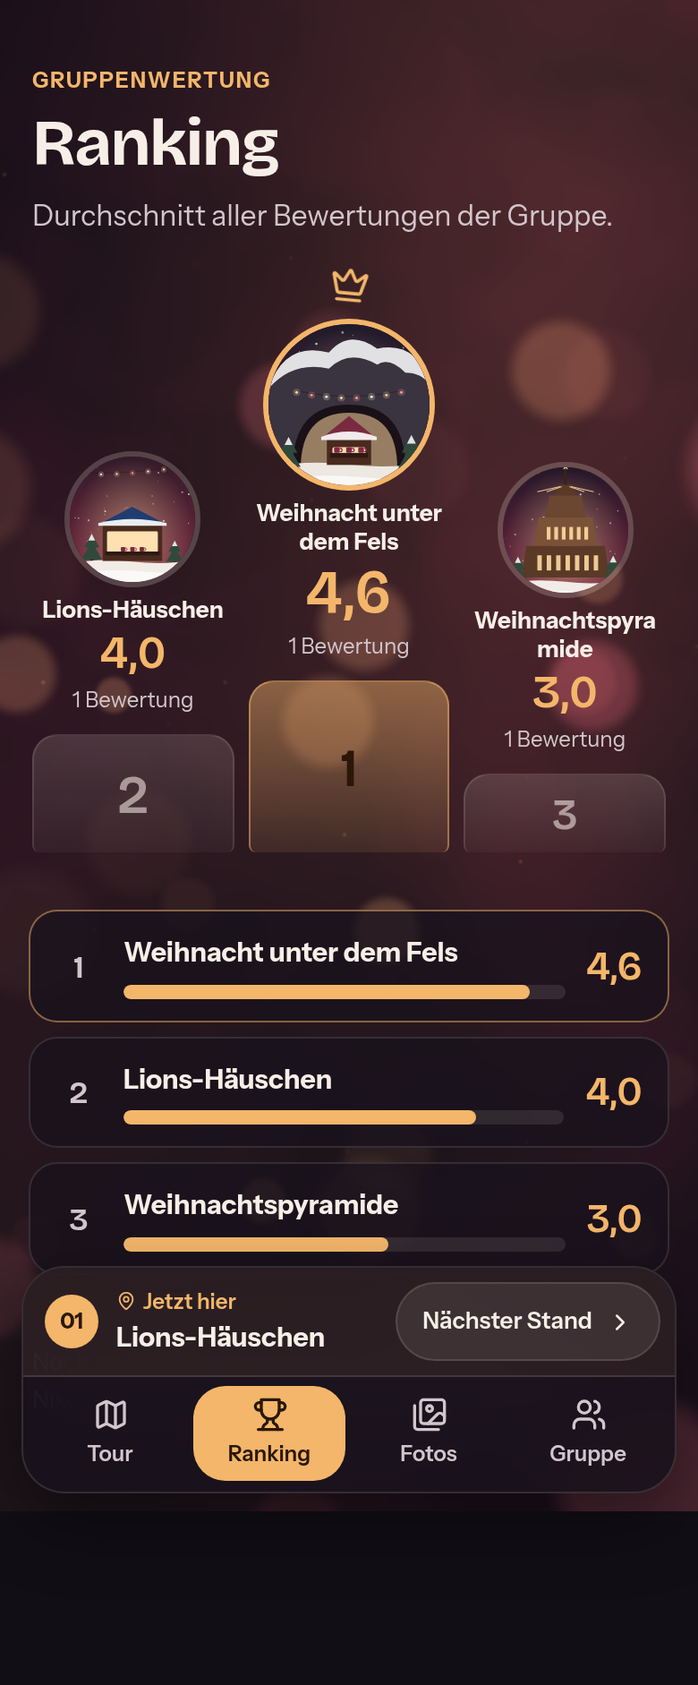
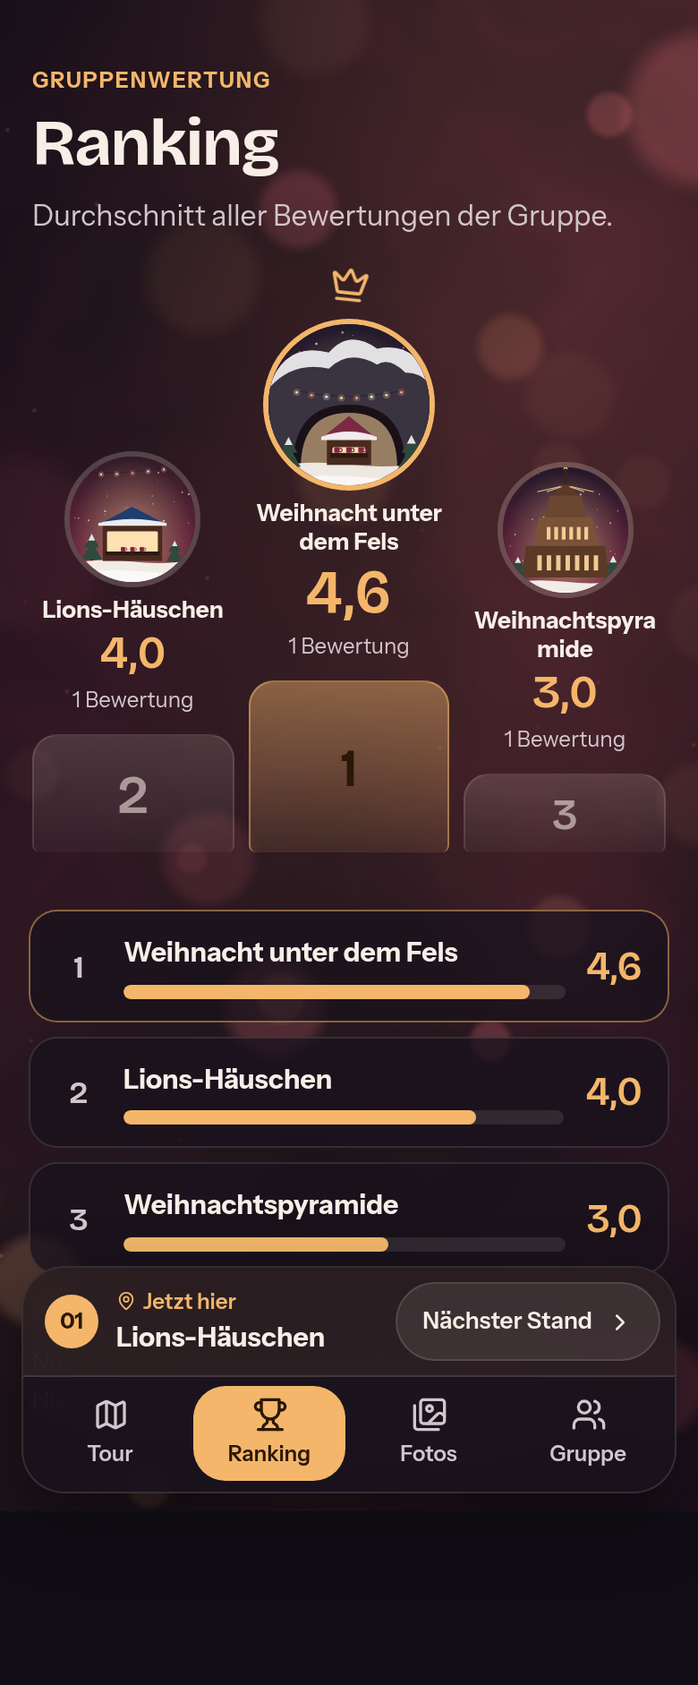
Neues Design wird Standard, Design-Test entfernt
- Regeln aus dem Test "Neu" gelten jetzt für alle (html data-ui="2026")
- "Mutig", ?design-Link, localStorage-Schalter und Fortschrittsring entfernt
- Standkarten auf der Startseite wieder kompakt wie im alten Design
- DESIGN.md und README: neue Schriften, kein Glow, neue Pages-Adresse

Claude-Session: https://claude.ai/code/session_01HBLPNU7waewuAfHJxNee8H

diff --git a/app/app.css b/app/app.css
@@ -678,154 +678,116 @@ li.ok .guide-icon { background: rgba(var(--pine-rgb), .16); color: var(--pine); 
 .intro-skip { position: absolute; bottom: calc(26px + env(safe-area-inset-bottom)); font-size: 12px; color: var(--muted); opacity: .7; animation: slogan-in .6s ease 1.2s both; }
 @media (prefers-reduced-motion: reduce) { .intro * { animation: none !important; } }
 
-/* ═════════ TEST-DESIGN „neu“ (aktiv mit ?design=neu) – Regeln aus DESIGN.md ═════════
+/* ═════════ DESIGN 2026 – Regeln aus DESIGN.md ═════════
    Alles hier greift nur bei <html data-design="neu">. Mit ?design=alt zurück. */
 
 /* Radien: 3 Stufen + Pillen-Buttons. Designs mit eigener Persönlichkeit behalten ihre Form. */
-:root[data-design="neu"] { --radius: 24px; --radius-sm: 16px; --btn-radius: 999px; }
-:root[data-design="neu"][data-theme="tannenwald"] { --radius: 14px; --radius-sm: 10px; --btn-radius: 10px; }
-:root[data-design="neu"][data-theme="zuckerstange"] { --radius: 30px; --radius-sm: 24px; }
-[data-design="neu"] .icon-btn, [data-design="neu"] .map-tools button { border-radius: 999px; }
+:root[data-ui] { --radius: 24px; --radius-sm: 16px; --btn-radius: 999px; }
+:root[data-ui][data-theme="tannenwald"] { --radius: 14px; --radius-sm: 10px; --btn-radius: 10px; }
+:root[data-ui][data-theme="zuckerstange"] { --radius: 30px; --radius-sm: 24px; }
+[data-ui] .icon-btn, [data-ui] .map-tools button { border-radius: 999px; }
 
 /* Typo-Skala: Text 16, Eingaben 16 (kein iPhone-Zoom), feste Stufen für Titel */
-[data-design="neu"] body { font-size: 16px; }
-[data-design="neu"] input, [data-design="neu"] textarea, [data-design="neu"] select { font-size: 16px !important; }
-[data-design="neu"] .card-head h2, [data-design="neu"] .section-head h2 { font-size: 22px; }
-[data-design="neu"] .page-head h1 { font-size: 36px; line-height: 1.05; }
-[data-design="neu"] .sheet h2, [data-design="neu"] .rating-stand h2 { font-size: 22px; }
-[data-design="neu"] h1, [data-design="neu"] h2, [data-design="neu"] .stand-main strong, [data-design="neu"] .podium strong { hyphens: auto; -webkit-hyphens: auto; overflow-wrap: break-word; }
-[data-design="neu"] .podium strong { overflow-wrap: anywhere; } /* Fallback, wenn der Browser keine deutsche Silbentrennung kann */
+[data-ui] body { font-size: 16px; }
+[data-ui] input, [data-ui] textarea, [data-ui] select { font-size: 16px !important; }
+[data-ui] .card-head h2, [data-ui] .section-head h2 { font-size: 22px; }
+[data-ui] .page-head h1 { font-size: 36px; line-height: 1.05; }
+[data-ui] .sheet h2, [data-ui] .rating-stand h2 { font-size: 22px; }
+[data-ui] h1, [data-ui] h2, [data-ui] .stand-main strong, [data-ui] .podium strong { hyphens: auto; -webkit-hyphens: auto; overflow-wrap: break-word; }
+[data-ui] .podium strong { overflow-wrap: anywhere; } /* Fallback, wenn der Browser keine deutsche Silbentrennung kann */
 
 /* Eyebrow: volles Gold (Kontrast ≥ 4.5:1), kein Dauer-Schimmer, ruhigere Laufweite */
-[data-design="neu"] .shiny { color: var(--amber); background: none; -webkit-background-clip: border-box; background-clip: border-box; animation: none; letter-spacing: .08em; }
-[data-design="neu"] .eyebrow, [data-design="neu"] .sheet-number, [data-design="neu"] .event-from { letter-spacing: .08em; }
+[data-ui] .shiny { color: var(--amber); background: none; -webkit-background-clip: border-box; background-clip: border-box; animation: none; letter-spacing: .08em; }
+[data-ui] .eyebrow, [data-ui] .sheet-number, [data-ui] .event-from { letter-spacing: .08em; }
 
 /* Ruhige Flächen statt Glas: Blur nur noch für schwebende Elemente */
-:root[data-design="neu"] :where(.card, .stats, .progress-card, .stand-card, .podium button, .people li, .guide-steps > li) {
+:root[data-ui] :where(.card, .stats, .progress-card, .stand-card, .podium button, .people li, .guide-steps > li) {
   background: rgba(var(--panel-rgb), .74); backdrop-filter: none; -webkit-backdrop-filter: none;
 }
 
 /* Abstände im 4er-Raster, mehr Luft zwischen Sektionen */
-[data-design="neu"] .content { gap: 24px; }
-[data-design="neu"] .card-head { padding: 20px 20px 12px; }
-[data-design="neu"] .section-head { margin: 8px 4px 12px; }
-[data-design="neu"] .stand-list { gap: 12px; }
-[data-design="neu"] .stand-card { padding: 14px 16px 14px 14px; gap: 16px; }
+[data-ui] .content { gap: 24px; }
+[data-ui] .card-head { padding: 20px 20px 12px; }
+[data-ui] .section-head { margin: 8px 4px 12px; }
+[data-ui] .stand-list { gap: 12px; }
+[data-ui] .stand-card { padding: 14px 16px 14px 14px; gap: 16px; }
 
 /* Standkarte: klare Hierarchie (Name > Ort/Getränk > Bewertung), einheitliche Status-Tags */
-[data-design="neu"] .stand-main { gap: 3px; }
-[data-design="neu"] .stand-main strong { font-size: 17px; font-weight: 650; }
-[data-design="neu"] .stand-main small { font-size: 14px; }
-[data-design="neu"] .stand-num { letter-spacing: .06em; gap: 6px; flex-wrap: wrap; }
-[data-design="neu"] .here-tag, [data-design="neu"] .done { margin-left: 0; padding: 2px 8px; border-radius: 999px; font-size: 12px; font-weight: 700; letter-spacing: 0; line-height: 1.5; }
-[data-design="neu"] .done { background: rgba(var(--pine-rgb), .14); }
-[data-design="neu"] .done.all { background: var(--surface-2); color: var(--ink); margin-left: 0; }
+[data-ui] .stand-main { gap: 3px; }
+[data-ui] .stand-main strong { font-size: 17px; font-weight: 650; }
+[data-ui] .stand-main small { font-size: 14px; }
+[data-ui] .stand-num { letter-spacing: .06em; gap: 6px; flex-wrap: wrap; }
+[data-ui] .here-tag, [data-ui] .done { margin-left: 0; padding: 2px 8px; border-radius: 999px; font-size: 12px; font-weight: 700; letter-spacing: 0; line-height: 1.5; }
+[data-ui] .done { background: rgba(var(--pine-rgb), .14); }
+[data-ui] .done.all { background: var(--surface-2); color: var(--ink); margin-left: 0; }
 
 /* Farbrollen: Gold = Aktion/Jetzt hier/Scores, ohne Leuchten; Balken einfarbig */
-[data-design="neu"] .btn.primary { box-shadow: 0 2px 8px rgba(0, 0, 0, .25); }
-[data-design="neu"] .stand-card.is-now { box-shadow: 0 0 0 1px rgba(var(--accent-rgb), .35); }
-[data-design="neu"] .criteria-bars b { background: var(--amber); }
-[data-design="neu"] .map-marker.selected { box-shadow: 0 0 0 4px rgba(var(--accent-rgb), .25); }
+[data-ui] .btn.primary { box-shadow: 0 2px 8px rgba(0, 0, 0, .25); }
+[data-ui] .stand-card.is-now { box-shadow: 0 0 0 1px rgba(var(--accent-rgb), .35); }
+[data-ui] .criteria-bars b { background: var(--amber); }
+[data-ui] .map-marker.selected { box-shadow: 0 0 0 4px rgba(var(--accent-rgb), .25); }
 
 /* Ranking: Medaillen deckend und lesbar über den Bildern */
-[data-design="neu"] .medal { background: var(--panel-solid); color: var(--ink); border-color: var(--panel-solid); box-shadow: 0 2px 8px rgba(0, 0, 0, .35); }
-[data-design="neu"] .place-1 .medal { background: var(--amber); color: var(--amber-ink); }
+[data-ui] .medal { background: var(--panel-solid); color: var(--ink); border-color: var(--panel-solid); box-shadow: 0 2px 8px rgba(0, 0, 0, .35); }
+[data-ui] .place-1 .medal { background: var(--amber); color: var(--amber-ink); }
 
 /* Touch-Ziele mindestens 44 px */
-[data-design="neu"] .btn.small { min-height: 44px; }
-[data-design="neu"] .link-btn { min-height: 44px; }
-[data-design="neu"] .photo-previews button, [data-design="neu"] .admin-stand-actions .icon-btn { width: 44px; height: 44px; }
+[data-ui] .btn.small { min-height: 44px; }
+[data-ui] .link-btn { min-height: 44px; }
+[data-ui] .photo-previews button, [data-ui] .admin-stand-actions .icon-btn { width: 44px; height: 44px; }
 
 /* Bedienung */
-[data-design="neu"] button:disabled { cursor: not-allowed; }
+[data-ui] button:disabled { cursor: not-allowed; }
 @media (prefers-reduced-motion: reduce) {
-  [data-design="neu"] *, [data-design="neu"] *::before, [data-design="neu"] *::after { animation-duration: .01ms !important; animation-iteration-count: 1 !important; transition-duration: .01ms !important; }
+  [data-ui] *, [data-ui] *::before, [data-ui] *::after { animation-duration: .01ms !important; animation-iteration-count: 1 !important; transition-duration: .01ms !important; }
 }
 
-/* Schalter zum Vergleichen (Gruppe) */
-.design-test { display: flex; align-items: center; gap: 10px; padding: 12px 14px; border-radius: var(--radius-sm); border: 1px dashed rgba(var(--accent-rgb), .5); font-size: 13px; color: var(--muted); }
-.design-test strong { color: var(--ink); margin-right: auto; }
-.design-test button { min-height: 36px; padding: 0 14px; border-radius: 999px; border: 1px solid var(--line); background: var(--surface-2); color: var(--ink); font-weight: 700; font-size: 13px; }
-.design-test button.active { background: var(--amber); border-color: var(--amber); color: var(--amber-ink); }
+.crown, .pedestal, .rank-bars { display: none; }
 
-/* ═════════ TEST-DESIGN „mutig“ (aktiv mit ?design=mutig; enthält alle „neu“-Regeln) ═════════ */
-.cup-ring, .cup-count, .crown, .pedestal, .rank-bars { display: none; }
-
-/* 1 · Hero als Bühne: Tasse groß in der Mitte, Fortschrittsring drumherum, Titel darunter */
-[data-bold] .hero { grid-template-columns: 1fr; justify-items: center; text-align: center; min-height: 0; gap: 4px; }
-[data-bold] .hero-cup { order: -1; width: 280px; height: 300px; margin: 0 auto; }
-[data-bold] .winter-cup { inset: 14px 6px 40px 14px; }
-[data-bold] .cup-ring { display: block; position: absolute; left: 50%; top: 4px; width: 252px; height: 252px; transform: translateX(-50%) rotate(-90deg); overflow: visible; }
-[data-bold] .cup-ring-track { fill: none; stroke: rgba(var(--ink-rgb), .1); stroke-width: 2.5; }
-[data-bold] .cup-ring-fill { fill: none; stroke: var(--pine); stroke-width: 3.5; stroke-linecap: round; transition: stroke-dasharray .8s cubic-bezier(.2, .8, .2, 1); }
-[data-bold] .cup-count { display: inline-block; position: absolute; left: 50%; bottom: 8px; transform: translateX(-50%); padding: 6px 14px; border-radius: 999px; background: rgba(var(--panel-rgb), .85); border: 1px solid var(--line); font-size: 13px; color: var(--muted); white-space: nowrap; }
-[data-bold] .cup-count b { font: 600 18px var(--display); color: var(--amber); margin-right: 2px; font-variant-numeric: lining-nums; }
-[data-bold] .hero-copy { justify-items: center; }
-[data-bold] .hero h1 { font-size: clamp(40px, 12vw, 60px); }
-[data-bold] .slogan { text-align: center; max-width: 26ch; }
-[data-bold] .progress-card { display: none; }
-
-/* 2 · Karte randlos über die volle Breite */
-[data-bold] .map-card { margin: 0 -16px; border-radius: 0; border-left: 0; border-right: 0; background: rgba(var(--panel-rgb), .55); }
-[data-bold] .map-card .card-head { padding: 18px 16px 12px; }
-[data-bold] .map-wrap { height: 320px; }
-[data-bold] .map-selected { padding-right: 16px; }
-[data-bold] .map-selected-main { padding-left: 16px; }
-
-/* Standkarten mit großem Bild oben (in „Neu“ und „Mutig“) */
-[data-design="neu"] .stand-list { gap: 16px; }
-[data-design="neu"] .stand-card { position: relative; flex-direction: column; align-items: stretch; gap: 0; padding: 0; overflow: hidden; }
-[data-design="neu"] .stand-thumb { width: 100%; }
-[data-design="neu"] .stand-thumb > img { width: 100%; height: auto; aspect-ratio: 16 / 9; border-radius: 0; object-fit: cover; object-position: center 62%; }
-[data-design="neu"] .tick svg { width: 52px; height: 52px; padding: 10px; }
-[data-design="neu"] .stand-main { padding: 14px 16px 16px; }
-[data-design="neu"] .stand-main strong { font-size: 19px; }
-[data-design="neu"] .stand-card .stack { display: none; }
-
-/* Ranking als Siegertreppchen + Balkenliste (in „Neu“ und „Mutig“) */
-[data-design="neu"] .podium { gap: 8px; margin-top: 18px; }
-[data-design="neu"] .podium li { display: flex; flex-direction: column; justify-content: flex-end; }
-[data-design="neu"] .podium button, [data-design="neu"] .podium .place-1 button { position: relative; background: none; border: 0; padding: 0 4px 10px; gap: 4px; box-shadow: none; }
-[data-design="neu"] .podium img { width: 76px; height: 76px; border-radius: 50%; border: 3px solid rgba(var(--ink-rgb), .2); }
-[data-design="neu"] .podium .place-1 img { width: 96px; height: 96px; border-color: var(--amber); box-shadow: 0 0 0 6px rgba(var(--accent-rgb), .15); }
-[data-design="neu"] .podium .medal { display: none; }
-[data-design="neu"] .crown { display: block; position: absolute; top: -26px; left: 50%; transform: translateX(-50%) rotate(-8deg); color: var(--amber); animation: crown-bob 2.6s ease-in-out infinite; }
+/* Ranking als Siegertreppchen + Balkenliste  */
+[data-ui] .podium { gap: 8px; margin-top: 18px; }
+[data-ui] .podium li { display: flex; flex-direction: column; justify-content: flex-end; }
+[data-ui] .podium button, [data-ui] .podium .place-1 button { position: relative; background: none; border: 0; padding: 0 4px 10px; gap: 4px; box-shadow: none; }
+[data-ui] .podium img { width: 76px; height: 76px; border-radius: 50%; border: 3px solid rgba(var(--ink-rgb), .2); }
+[data-ui] .podium .place-1 img { width: 96px; height: 96px; border-color: var(--amber); box-shadow: 0 0 0 6px rgba(var(--accent-rgb), .15); }
+[data-ui] .podium .medal { display: none; }
+[data-ui] .crown { display: block; position: absolute; top: -26px; left: 50%; transform: translateX(-50%) rotate(-8deg); color: var(--amber); animation: crown-bob 2.6s ease-in-out infinite; }
 @keyframes crown-bob { 50% { transform: translateX(-50%) translateY(-4px) rotate(6deg); } }
-[data-design="neu"] .podium-score { font-size: 26px; }
-[data-design="neu"] .podium .place-1 .podium-score { font-size: 34px; }
-[data-design="neu"] .pedestal { display: grid; place-items: center; border-radius: 14px 14px 4px 4px; background: linear-gradient(rgba(var(--ink-rgb), .14), rgba(var(--ink-rgb), .04)); border: 1px solid var(--line); border-bottom: 0; font: 600 30px var(--display); color: rgba(var(--ink-rgb), .55); }
-[data-design="neu"] .place-1 .pedestal { height: 96px; background: linear-gradient(rgba(var(--accent-rgb), .45), rgba(var(--accent-rgb), .1)); color: var(--amber-ink); border-color: rgba(var(--accent-rgb), .5); }
-[data-design="neu"] .place-2 .pedestal { height: 66px; }
-[data-design="neu"] .place-3 .pedestal { height: 44px; font-size: 24px; }
-[data-design="neu"] .rank-list { display: none; }
-[data-design="neu"] .rank-bars { display: grid; gap: 8px; list-style: none; margin: 8px 0 0; padding: 0; }
-[data-design="neu"] .rank-bars button { width: 100%; display: flex; align-items: center; gap: 12px; padding: 12px 14px; border-radius: 16px; border: 1px solid var(--line); background: rgba(var(--panel-rgb), .74); color: var(--ink); text-align: left; }
-[data-design="neu"] .rank-bars li:first-child button { border-color: rgba(var(--accent-rgb), .5); }
-[data-design="neu"] .rank-bars .rank { width: 26px; flex: none; font: 600 18px var(--display); color: var(--muted); text-align: center; }
-[data-design="neu"] .rank-bar-main { flex: 1; min-width: 0; display: grid; gap: 6px; }
-[data-design="neu"] .rank-bar-main strong { font-size: 15px; overflow: hidden; text-overflow: ellipsis; white-space: nowrap; }
-[data-design="neu"] .rank-bar-main i { height: 8px; border-radius: 99px; background: rgba(var(--ink-rgb), .1); overflow: hidden; }
-[data-design="neu"] .rank-bar-main i b { display: block; height: 100%; border-radius: 99px; background: var(--amber); }
-[data-design="neu"] .rank-bars > li > button > b { flex: none; font: 600 22px var(--display); color: var(--amber); font-variant-numeric: lining-nums; }
-@media (prefers-reduced-motion: reduce) { [data-design="neu"] .crown { animation: none; } }
+[data-ui] .podium-score { font-size: 26px; }
+[data-ui] .podium .place-1 .podium-score { font-size: 34px; }
+[data-ui] .pedestal { display: grid; place-items: center; border-radius: 14px 14px 4px 4px; background: linear-gradient(rgba(var(--ink-rgb), .14), rgba(var(--ink-rgb), .04)); border: 1px solid var(--line); border-bottom: 0; font: 600 30px var(--display); color: rgba(var(--ink-rgb), .55); }
+[data-ui] .place-1 .pedestal { height: 96px; background: linear-gradient(rgba(var(--accent-rgb), .45), rgba(var(--accent-rgb), .1)); color: var(--amber-ink); border-color: rgba(var(--accent-rgb), .5); }
+[data-ui] .place-2 .pedestal { height: 66px; }
+[data-ui] .place-3 .pedestal { height: 44px; font-size: 24px; }
+[data-ui] .rank-list { display: none; }
+[data-ui] .rank-bars { display: grid; gap: 8px; list-style: none; margin: 8px 0 0; padding: 0; }
+[data-ui] .rank-bars button { width: 100%; display: flex; align-items: center; gap: 12px; padding: 12px 14px; border-radius: 16px; border: 1px solid var(--line); background: rgba(var(--panel-rgb), .74); color: var(--ink); text-align: left; }
+[data-ui] .rank-bars li:first-child button { border-color: rgba(var(--accent-rgb), .5); }
+[data-ui] .rank-bars .rank { width: 26px; flex: none; font: 600 18px var(--display); color: var(--muted); text-align: center; }
+[data-ui] .rank-bar-main { flex: 1; min-width: 0; display: grid; gap: 6px; }
+[data-ui] .rank-bar-main strong { font-size: 15px; overflow: hidden; text-overflow: ellipsis; white-space: nowrap; }
+[data-ui] .rank-bar-main i { height: 8px; border-radius: 99px; background: rgba(var(--ink-rgb), .1); overflow: hidden; }
+[data-ui] .rank-bar-main i b { display: block; height: 100%; border-radius: 99px; background: var(--amber); }
+[data-ui] .rank-bars > li > button > b { flex: none; font: 600 22px var(--display); color: var(--amber); font-variant-numeric: lining-nums; }
+@media (prefers-reduced-motion: reduce) { [data-ui] .crown { animation: none; } }
 
-/* ═════════ „Neu“ nach Taste-Skill: Überschriften-Schrift, kein Glow, kein Verlaufstext ═════════ */
+/* ═════════ Taste-Skill: Überschriften-Schrift, kein Glow, kein Verlaufstext ═════════ */
 /* Fraunces ist laut Skill ein typischer KI-Default. Marktnacht/Tannenwald: Bricolage Grotesque (warm, eigenwillig),
    Polarlicht: Outfit. Zuckerstange (Fredoka) und Schneekugel (Playfair) behalten ihre Schrift. */
-:root[data-design="neu"]:not([data-theme="zuckerstange"]):not([data-theme="schnee"]):not([data-theme="mitternacht"]) { --display: 'Bricolage Grotesque Variable', system-ui, sans-serif; }
-:root[data-design="neu"][data-theme="mitternacht"] { --display: 'Outfit Variable', system-ui, sans-serif; }
-[data-design="neu"] h1, [data-design="neu"] h2 { font-weight: 700; letter-spacing: -.025em; }
-[data-design="neu"] .hero h1 { font-weight: 800; letter-spacing: -.035em; line-height: .98; }
+:root[data-ui]:not([data-theme="zuckerstange"]):not([data-theme="schnee"]):not([data-theme="mitternacht"]) { --display: 'Bricolage Grotesque Variable', system-ui, sans-serif; }
+:root[data-ui][data-theme="mitternacht"] { --display: 'Outfit Variable', system-ui, sans-serif; }
+[data-ui] h1, [data-ui] h2 { font-weight: 700; letter-spacing: -.025em; }
+[data-ui] .hero h1 { font-weight: 800; letter-spacing: -.035em; line-height: .98; }
 /* Betonung in derselben Schrift: Farbe statt (künstlicher) Kursive, kein Verlaufstext */
-:root[data-design="neu"]:not([data-theme="zuckerstange"]) .hero h1 em { font-style: normal; color: var(--amber); background: none; -webkit-background-clip: border-box; background-clip: border-box; }
+:root[data-ui]:not([data-theme="zuckerstange"]) .hero h1 em { font-style: normal; color: var(--amber); background: none; -webkit-background-clip: border-box; background-clip: border-box; }
 /* Kein Leuchten: Ringe statt Glow */
-[data-design="neu"] .map-marker.current { animation: none; box-shadow: 0 0 0 3px var(--amber); }
-[data-design="neu"] .map-marker.selected { box-shadow: 0 0 0 3px rgba(var(--accent-rgb), .35); }
-[data-design="neu"] .stand-card.is-now { box-shadow: none; }
-[data-design="neu"][data-theme="mitternacht"] .card, [data-design="neu"][data-theme="mitternacht"] .stats, [data-design="neu"][data-theme="mitternacht"] .stand-card { box-shadow: none; }
-[data-design="neu"][data-theme="mitternacht"] .stats strong { text-shadow: none; }
-[data-design="neu"][data-theme="mitternacht"] .dock button.active { box-shadow: none; }
-[data-design="neu"] .podium .place-1 img { box-shadow: none; }
+[data-ui] .map-marker.current { animation: none; box-shadow: 0 0 0 3px var(--amber); }
+[data-ui] .map-marker.selected { box-shadow: 0 0 0 3px rgba(var(--accent-rgb), .35); }
+[data-ui] .stand-card.is-now { box-shadow: none; }
+[data-ui][data-theme="mitternacht"] .card, [data-ui][data-theme="mitternacht"] .stats, [data-ui][data-theme="mitternacht"] .stand-card { box-shadow: none; }
+[data-ui][data-theme="mitternacht"] .stats strong { text-shadow: none; }
+[data-ui][data-theme="mitternacht"] .dock button.active { box-shadow: none; }
+[data-ui] .podium .place-1 img { box-shadow: none; }
 
 /* Zum Inhalt springen (Tastatur, Screenreader) */
 .skip-link { position: absolute; left: 12px; top: -60px; z-index: 200; padding: 10px 14px; border-radius: 999px; background: var(--amber); color: var(--amber-ink); font-weight: 700; text-decoration: none; }

diff --git a/app/page.tsx b/app/page.tsx
@@ -12,7 +12,7 @@ import NoseBadge from '../components/ui/NoseBadge';
 import NoseSheet from '../components/NoseSheet';
 import Intro from '../components/Intro';
 import { exportBackup, exportCsv } from '../lib/export';
-import { applyTheme, DESIGN_KEY, THEME_KEY, themeById } from '../lib/themes';
+import { applyTheme, THEME_KEY, themeById } from '../lib/themes';
 import Avatar from '../components/ui/Avatar';
 import CountUp from '../components/ui/CountUp';
 import ShinyText from '../components/ui/ShinyText';
@@ -79,7 +79,6 @@ export default function Home() {
   const [seen, setSeen] = useState<string[]>([]);
   const [pickNext, setPickNext] = useState(false);
   const [noseOpen, setNoseOpen] = useState(false);
-  const [designTest, setDesignTest] = useState<'alt' | 'neu' | 'mutig' | ''>('');
   const [intro, setIntro] = useState(false);
   const [slogan, setSlogan] = useState(0);
   const [flashLive, setFlashLive] = useState(false);
@@ -155,7 +154,6 @@ export default function Home() {
         if (p.name.trim() && !localStorage.getItem(GUIDE_KEY)) setGuide(true);
       } catch {}
       setSlogan(Math.floor(Math.random() * slogans.length));
-      try { const d = localStorage.getItem(DESIGN_KEY); if (d === 'neu' || d === 'alt' || d === 'mutig') setDesignTest(d); } catch {}
       try { if (!localStorage.getItem(INTRO_KEY) && !matchMedia('(prefers-reduced-motion: reduce)').matches) setIntro(true); } catch {}
       const c = loadCurrent();
       if (c) { setCurrent(c); setSelected(c); }
@@ -256,14 +254,6 @@ export default function Home() {
     notify('Admin-Bereich freigeschaltet.');
   }
   function leaveAdmin() { saveAdminKey(group, ''); setAdminKey(''); setView('group'); connect(group); }
-  function switchDesign(d: 'alt' | 'neu' | 'mutig') {
-    setDesignTest(d);
-    try { localStorage.setItem(DESIGN_KEY, d); } catch {}
-    const root = document.documentElement;
-    if (d === 'alt') delete root.dataset.design; else root.dataset.design = 'neu';
-    if (d === 'mutig') root.dataset.bold = '1'; else delete root.dataset.bold;
-    window.dispatchEvent(new Event('resize')); // Tasse und Karte an neue Größe anpassen
-  }
   function finishIntro() { setIntro(false); try { localStorage.setItem(INTRO_KEY, '1'); } catch {} }
   function closeGuide() { setGuide(false); try { localStorage.setItem(GUIDE_KEY, '1'); } catch {} }
   function startRating(stand: Stand) { withName(() => setRateStand(stand)); }
@@ -354,12 +344,7 @@ export default function Home() {
               {isNose && <button type="button" className="nose-btn" onClick={() => setNoseOpen(true)}><span aria-hidden="true">👃</span> Nasenmeister-Ansage</button>}
             </div>
             <div className="hero-cup">
-              <svg className="cup-ring" viewBox="0 0 100 100" aria-hidden="true">
-                <circle cx="50" cy="50" r="46" className="cup-ring-track" />
-                <circle cx="50" cy="50" r="46" className="cup-ring-fill" pathLength={100} strokeDasharray={`${(ownRated.size / stands.length) * 100} 100`} />
-              </svg>
               <WinterCup variant={themeById(theme).cup} />
-              <span className="cup-count"><b>{ownRated.size}</b> von {stands.length} Stopps</span>
             </div>
           </section>
 
@@ -492,12 +477,6 @@ export default function Home() {
           {people.length > 0 && <ul className="people">
             {people.map(p => <li key={p.id}><Avatar name={p.name} size={38} /><span className="person"><strong>{p.name}{p.id === meta.nasenmeisterId && <NoseBadge compact />}{p.id === profile.id && <span className="you">Du</span>}</strong><small>{plural(p.count, 'Stand', 'Stände')} bewertet · im Schnitt {formatScore(p.avg)}</small></span><span className="progress"><i style={{ width: `${(p.count / stands.length) * 100}%` }} /></span></li>)}
           </ul>}
-          {designTest && <div className="design-test" role="group" aria-label="Design-Test">
-            <strong>Design-Test</strong>
-            <button type="button" className={designTest === 'alt' ? 'active' : ''} aria-pressed={designTest === 'alt'} onClick={() => switchDesign('alt')}>Alt</button>
-            <button type="button" className={designTest === 'neu' ? 'active' : ''} aria-pressed={designTest === 'neu'} onClick={() => switchDesign('neu')}>Neu</button>
-            <button type="button" className={designTest === 'mutig' ? 'active' : ''} aria-pressed={designTest === 'mutig'} onClick={() => switchDesign('mutig')}>Mutig</button>
-          </div>}
           <section className="card design-card">
             <div className="card-head"><h2>Design</h2><span className="pill">nur auf deinem Handy</span></div>
             <ThemePicker value={theme} onChange={chooseTheme} />

diff --git a/lib/themes.ts b/lib/themes.ts
@@ -58,7 +58,4 @@ export function applyTheme(theme: Theme) {
   document.querySelector('meta[name="theme-color"]')?.setAttribute('content', theme.vars['--bg']);
 }
 /** Läuft vor dem ersten Zeichnen (im <head>), damit kein falsches Farbschema aufblitzt. */
-/** Test-Design per Link umschalten: ?design=neu, ?design=mutig oder ?design=alt (wird gemerkt). */
-export const DESIGN_KEY = 'glueh26-design';
-const designBoot = `var d=new URLSearchParams(location.search).get('design');if(d==='neu'||d==='alt'||d==='mutig')localStorage.setItem('${DESIGN_KEY}',d);d=localStorage.getItem('${DESIGN_KEY}');if(d==='neu'||d==='mutig')document.documentElement.dataset.design='neu';if(d==='mutig')document.documentElement.dataset.bold='1';`;
-export const themeBootScript = `try{${designBoot}}catch(e){}try{var i=localStorage.getItem('${THEME_KEY}'),t=${JSON.stringify(Object.fromEntries(themes.map(t => [t.id, t.vars])))}[i];if(t){for(var k in t)document.documentElement.style.setProperty(k,t[k]);document.documentElement.dataset.theme=i}}catch(e){}`;
+export const themeBootScript = `try{var i=localStorage.getItem('${THEME_KEY}'),t=${JSON.stringify(Object.fromEntries(themes.map(t => [t.id, t.vars])))}[i];if(t){for(var k in t)document.documentElement.style.setProperty(k,t[k]);document.documentElement.dataset.theme=i}}catch(e){}`;

diff --git a/app/layout.tsx b/app/layout.tsx
@@ -20,4 +20,4 @@ export const metadata: Metadata = {
   formatDetection: { telephone: false },
 };
 export const viewport: Viewport = { width: 'device-width', initialScale: 1, viewportFit: 'cover', themeColor: '#120e16' };
-export default function RootLayout({children}: Readonly<{children: React.ReactNode}>) { return <html lang="de" suppressHydrationWarning><head><script dangerouslySetInnerHTML={{ __html: themeBootScript }} /></head><body>{children}<PwaRegister /></body></html> }
+export default function RootLayout({children}: Readonly<{children: React.ReactNode}>) { return <html lang="de" data-ui="2026" suppressHydrationWarning><head><script dangerouslySetInnerHTML={{ __html: themeBootScript }} /></head><body>{children}<PwaRegister /></body></html> }

diff --git a/DESIGN.md b/DESIGN.md
@@ -37,14 +37,13 @@ Regeln
 - Gold ist funktional: höchstens **ein** goldener Haupt-Button pro Ansicht. Kein Gold für Deko-Text.
 - Grün bedeutet immer „geschafft“. Nie als Deko.
 - Rot ist Marke + Gefahr. Keine roten Flächen hinter Text außer Warnhinweisen.
-- Verläufe nur in der Hintergrundszene und der Tasse – nicht in Buttons oder Text
-  (Ausnahme: das „26.“ im Hero eines Designs).
+- Verläufe nur in der Hintergrundszene und der Tasse – nicht in Buttons oder Text.
 - Kleiner Text (< 18 px) braucht ≥ 4.5:1 Kontrast. Keine halbtransparente Akzentfarbe für Text.
 
 ## 2. Typografie
 
-Display: **Fraunces** (Marktnacht/Tannenwald) · Bricolage Grotesque (Polarlicht) · Fredoka (Zuckerstange) ·
-Playfair Display (Schneekugel). Text: **Instrument Sans** in allen Designs.
+Display: **Bricolage Grotesque** (Marktnacht/Tannenwald) · Outfit (Polarlicht) · Fredoka (Zuckerstange) ·
+Playfair Display (Schneekugel). Betonung („26.“) per Farbe in derselben Schrift, keine Kursive, kein Verlauf. Text: **Instrument Sans** in allen Designs.
 
 | Stufe | Größe / Zeilenhöhe | Gewicht | Einsatz |
 |---|---|---|---|
@@ -92,7 +91,7 @@ Buttons sind **Pillen** (freundlicher, „Event-Ticket“-Gefühl). Keine andere
 | `e0` | keiner, 1 px `--line` | normale Karten |
 | `e1` | `0 2px 8px rgb(0 0 0 / .25)` | gedrückte/aktive Karten |
 | `e2` | `0 16px 40px rgb(0 0 0 / .45)` | schwebend: untere Leiste, Status-Pille, Toast |
-| `glow` | `0 0 0 4px accent/.25` | **nur** „Jetzt hier“ |
+| `ring` | `0 0 0 3px amber` | **nur** „Jetzt hier“ (Ring statt Leuchten) |
 
 Glas (Backdrop-Blur) nur für schwebende Elemente (untere Leiste, Status-Pille). Normale Karten
 sind ruhige, leicht aufgehellte Flächen ohne Blur – ruhiger, schneller, weniger „KI-Glas-Look“.
@@ -102,7 +101,7 @@ sind ruhige, leicht aufgehellte Flächen ohne Blur – ruhiger, schneller, wenig
 - **Hero:** Eyebrow (Datum) → Display-Titel → Spruch → (Nasenmeister-Knopf). Tasse rechts, nie abgeschnitten.
 - **Fortschritt:** große Zahl in Gold + „von 7 Stopps bewertet“, Segmentbalken: grün = bewertet, Gold pulsierend = jetzt hier.
 - **Standkarte:** Bild (64 × 76, `--r-md`) · Nummer + Status-Tags · Name (`heading-sm`) · Ort · Getränk (`body-sm`) · *eine* Bewertungszeile.
-  Erledigt = grüner Haken auf dem Bild, „Jetzt hier“ = goldener Rand + Glow. Nie beides als Farbfläche.
+  Erledigt = grüner Haken auf dem Bild, „Jetzt hier“ = goldener Rand. Nie beides als Farbfläche.
 - **Untere Leiste:** eine Einheit, `--panel-solid` mit Blur, `e2`, `--r-lg`. Oben „Jetzt hier“ (kompakt), unten Navigation.
 - **Sheets:** deckend `--panel-solid`, Titel `title`, primäre Aktion unten (Sticky-Footer bei langen Formularen).
 - **Tags:** Pille, `label`-Typo ohne Versalien, Gold = jetzt, Grün = erledigt, Neutral = Info.

diff --git a/README.md b/README.md
@@ -2,7 +2,7 @@
 
 Next.js 15, React 19, TypeScript, Tailwind CSS 4. Mobile-first Web-App für eine Glühwein-Tour durch Bielefeld: Karte (MapLibre), Gruppen-Bewertungen mit Fotos (Supabase, sonst lokal), Three.js-Hintergrund und 3D-Tasse.
 
-Live: https://leviurmoneit-dotcom.github.io/Gl-hwein-Tour-26/
+Live: https://nofufu.github.io/Gl-hwein-Tour-26/
 
 ```
 pnpm install
@@ -42,4 +42,4 @@ Dieser Code wurde aus dem Drive-Ordner `gluehwein-tour-26` übernommen (Designpr
 
 ## Quellen
 
-- Karten: MapLibre GL JS, OpenFreeMap. Schrift: Fraunces und Instrument Sans (Fontsource, OFL). Icons: Lucide.
+- Karten: MapLibre GL JS, OpenFreeMap. Schrift: Bricolage Grotesque, Outfit und Instrument Sans (Fontsource, OFL). Icons: Lucide.
